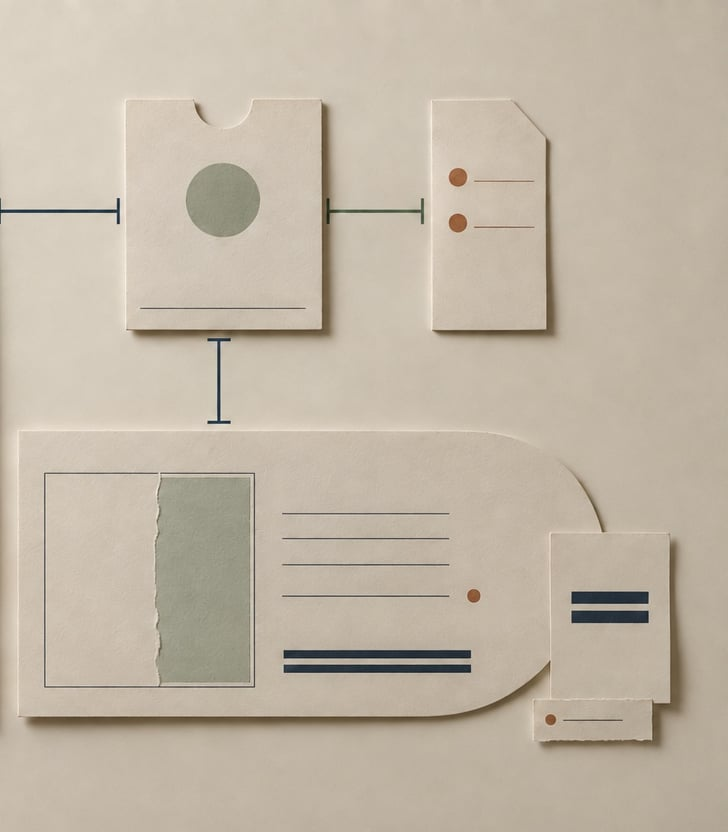
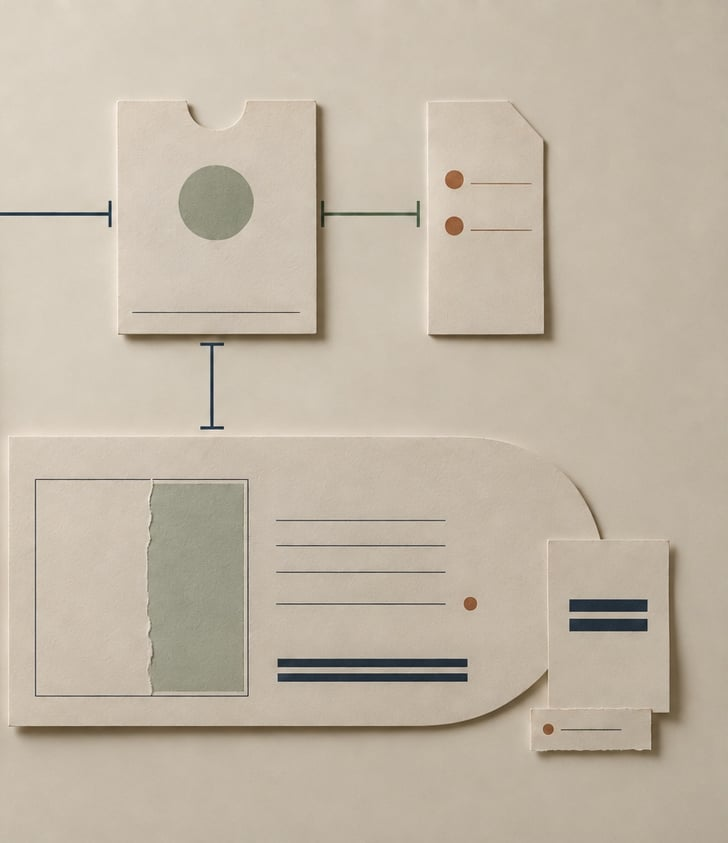
Plate: narrow crop starts clear of the folder connector, test coverage, shorter note

diff --git a/tests/unit/site_onepager_copy.test.ts b/tests/unit/site_onepager_copy.test.ts
@@ -3,7 +3,10 @@ import { createElement } from "react";
 import { renderToStaticMarkup } from "react-dom/server";
 import { readFileSync } from "node:fs";
 import { join } from "node:path";
+import { renderToStaticMarkup } from "react-dom/server";
+import sharp from "sharp";
 import { describe, expect, it } from "vitest";
+import { RecordPlate } from "../../frontend/src/components/onepager/onepager_plate";
 
 /**
  * Guards for the neotoma.io developer one-pager (home route).
@@ -19,7 +22,9 @@ const files = ["NeotomaOnePager.tsx", "onepager_copy.ts", "onepager_figures.tsx"
   readFileSync(join(dir, f), "utf-8")
 );
 // Doc comments list what is deliberately not claimed; only shipped copy is checked.
-const all = files.join("\n").replace(/\/\*[\s\S]*?\*\//g, "");
+const all = [...files, readFileSync(join(dir, "onepager_plate.tsx"), "utf-8")]
+  .join("\n")
+  .replace(/\/\*[\s\S]*?\*\//g, "");
 
 describe("neotoma.io one-pager copy", () => {
   it("uses no em dashes", () => {
@@ -330,5 +335,129 @@ describe("/install polish", () => {
 
   it("has no stale 280 px drafting-logo comment", () => {
     expect(css).not.toMatch(/280 px/);
+  });
+});
+
+describe("sheet 01 plate (FIG. A-1)", () => {
+  const read = (rel: string) => readFileSync(join(root, rel), "utf-8");
+  const brand = join(root, "frontend", "public", "brand");
+  const prov = JSON.parse(readFileSync(join(brand, "PROVENANCE.json"), "utf-8")).plate as {
+    source: { sha256: string };
+    files: Record<string, { sha256: string; bytes: number; width: number; height: number }>;
+  };
+  const html = renderToStaticMarkup(RecordPlate());
+  const attr = (tag: string, name: string) =>
+    new RegExp(`\\s${name}="([^"]*)"`, "i").exec(tag)?.[1];
+  const img = /<img\b[^>]*>/.exec(html)![0];
+
+  it("keeps the committed plate files byte for byte (sha256, size and dimensions from PROVENANCE.json)", async () => {
+    expect(Object.keys(prov.files).length).toBe(4);
+    for (const [file, info] of Object.entries(prov.files)) {
+      const bytes = readFileSync(join(brand, file));
+      expect(createHash("sha256").update(bytes).digest("hex"), file).toBe(info.sha256);
+      expect(bytes.length, `${file} bytes`).toBe(info.bytes);
+      const meta = await sharp(bytes).metadata();
+      expect([meta.width, meta.height], `${file} dimensions`).toEqual([info.width, info.height]);
+    }
+  });
+
+  it("records the accepted source hash and refuses any other source", async () => {
+    // @ts-expect-error plain ESM script
+    const script = await import("../../scripts/derive_neotoma_plate.mjs");
+    expect(prov.source.sha256).toBe(script.ACCEPTED_SOURCE_SHA256);
+    expect(() => script.verifySource(Buffer.from("not the accepted photograph"))).toThrow(
+      /refusing to derive/
+    );
+    // The narrow files are a crop window of the source frame; the overlay must use the same window.
+    const { NARROW_VIEW, PLATE_NARROW } =
+      await import("../../frontend/src/components/onepager/onepager_plate");
+    expect(NARROW_VIEW).toEqual({
+      x: script.NARROW_CROP.left,
+      y: script.NARROW_CROP.top,
+      w: script.NARROW_CROP.width,
+      h: script.NARROW_CROP.height,
+    });
+    expect([PLATE_NARROW.width, PLATE_NARROW.height]).toEqual([
+      script.NARROW_SIZE.width,
+      script.NARROW_SIZE.height,
+    ]);
+  });
+
+  it("gives the image a text alternative and explicit dimensions that match the file", () => {
+    const alt = attr(img, "alt");
+    expect(alt && alt.length, "alt text").toBeGreaterThan(120);
+    expect(alt).toMatch(/synthetic example/i);
+    const wide = prov.files["plate/neotoma-plate-a1-wide.jpg"];
+    expect(Number(attr(img, "width"))).toBe(wide.width);
+    expect(Number(attr(img, "height"))).toBe(wide.height);
+    expect(attr(img, "src")).toBe("/brand/plate/neotoma-plate-a1-wide.jpg");
+    // Both file families carry their own dimensions on the <source> so the box is reserved either way.
+    const sources = [...html.matchAll(/<source\b[^>]*>/g)].map((m) => m[0]);
+    expect(sources.length).toBe(3);
+    for (const tag of sources) {
+      const file = attr(tag, "srcset")!.replace("/brand/", "");
+      const info = prov.files[file];
+      expect(info, file).toBeDefined();
+      expect(Number(attr(tag, "width")), file).toBe(info.width);
+      expect(Number(attr(tag, "height")), file).toBe(info.height);
+    }
+  });
+
+  it("serves a separate narrow crop at 860 px and below, and never lazy-loads the first-screen image", () => {
+    const narrow = [...html.matchAll(/<source\b[^>]*>/g)]
+      .map((m) => m[0])
+      .filter((t) => attr(t, "media") === "(max-width: 860px)");
+    expect(narrow.map((t) => attr(t, "srcset"))).toEqual([
+      "/brand/plate/neotoma-plate-a1-narrow.webp",
+      "/brand/plate/neotoma-plate-a1-narrow.jpg",
+    ]);
+    expect(img).not.toMatch(/loading="lazy"/);
+    expect(img).toMatch(/fetchpriority="high"/);
+  });
+
+  it("keeps the desktop file light (WebP at most 120 KB)", () => {
+    const wide = prov.files["plate/neotoma-plate-a1-wide.webp"];
+    expect(wide.bytes).toBeLessThanOrEqual(120 * 1024);
+    expect(prov.files["plate/neotoma-plate-a1-narrow.webp"].bytes).toBeLessThan(wide.bytes);
+  });
+
+  it("puts no words on the paper objects: the overlay text is only keys, labels and the note", () => {
+    const text = [...html.matchAll(/<text\b[^>]*>(.*?)<\/text>/g)].map((m) =>
+      m[1]
+        .replace(/<[^>]+>/g, "")
+        .replace(/&#x27;|&amp;/g, "")
+        .trim()
+    );
+    const allowed = [/^[1-4]$/, /^FIG\. A-1/, /^SYNTHETIC EXAMPLE$/, /^NOTE$/, /^[A-Z0-9 .,]+$/];
+    for (const t of text) {
+      expect(
+        allowed.some((re) => re.test(t)),
+        `unexpected overlay text: ${t}`
+      ).toBe(true);
+    }
+    expect(text.filter((t) => /^[1-4]$/.test(t)).length).toBe(8); // four keys, wide and narrow
+    // No invoice data (dates, amounts) is drawn on the plate; the legend carries it.
+    expect(text.join(" ")).not.toMatch(/OCT|3,?200|3,?250/);
+    expect(html.match(/aria-hidden="true"/g)?.length).toBe(2);
+  });
+
+  it("keeps the plate's own paper ground in dark mode: framed, never inverted or tinted", () => {
+    const css = read("frontend/src/components/onepager/onepager.css");
+    const rule = (sel: string) =>
+      new RegExp(`${sel.replace(/[.]/g, "\\.")} \\{[^}]*\\}`).exec(css)?.[0] ?? "";
+    expect(rule(".dark .plan-plate")).toMatch(/border-color: rgba\(236, 229, 212/);
+    for (const sel of [".plan-plate", ".plan-plate-img", ".dark .plan-plate"]) {
+      expect(rule(sel), sel).not.toMatch(/filter|invert|mix-blend|opacity/);
+    }
+    expect(css).not.toMatch(/\.dark[^{]*\.plan-plate-img/);
+  });
+
+  it("replaces the abstract record plan in sheet 01 and keeps the four-item legend", () => {
+    const page = files[0];
+    expect(page).toContain("<RecordPlate />");
+    expect(page).not.toContain("RecordPlan");
+    expect(files[2]).not.toContain("RecordPlan");
+    expect(page).toContain("FIGURE_LEGEND.map");
+    expect(/FIGURE_LEGEND[^=]*= \[([\s\S]*?)\n\];/.exec(files[1])![1].split('",\n').length).toBe(4);
   });
 });

diff --git a/frontend/src/components/onepager/onepager_plate.tsx b/frontend/src/components/onepager/onepager_plate.tsx
@@ -20,11 +20,11 @@ import { cloudPath } from "./onepager_figures";
 export const PLATE_WIDE = { width: 1536, height: 1024, src: "/brand/plate/neotoma-plate-a1-wide" };
 export const PLATE_NARROW = {
   width: 728,
-  height: 832,
+  height: 843,
   src: "/brand/plate/neotoma-plate-a1-narrow",
 };
 /** Window of the source frame that the narrow files show: left, top, width, height. */
-export const NARROW_VIEW = { x: 640, y: 0, w: 896, h: 1024 } as const;
+export const NARROW_VIEW = { x: 652, y: 0, w: 884, h: 1024 } as const;
 
 /** Fixed colors: the plate keeps its own paper ground in both themes, so it does not follow them. */
 const INK = "#28372f";
@@ -56,19 +56,7 @@ function Key({ n, x, y, u }: { n: number; x: number; y: number; u: number }) {
 }
 
 /** Dimension line with end ticks, drawn between two points. */
-function Dim({
-  x1,
-  y1,
-  x2,
-  y2,
-  u,
-}: {
-  x1: number;
-  y1: number;
-  x2: number;
-  y2: number;
-  u: number;
-}) {
+function Dim({ x1, y1, x2, y2, u }: { x1: number; y1: number; x2: number; y2: number; u: number }) {
   const dx = x2 - x1;
   const dy = y2 - y1;
   const len = Math.hypot(dx, dy);
@@ -101,7 +89,7 @@ function Overlay({ variant }: { variant: Variant }) {
   const cloud = cloudPath({ x: 974, y: 702, w: 272, h: 62, r: 5 * u });
 
   // Labels in the empty paper margin.
-  const labelX = narrow ? 664 : 80;
+  const labelX = narrow ? 676 : 80;
   const labelY = narrow ? 52 : 66;
   const tagText = "SYNTHETIC EXAMPLE";
   const tagCharW = 0.6 * fs(12);
@@ -111,14 +99,13 @@ function Overlay({ variant }: { variant: Variant }) {
 
   const noteY0 = narrow ? 936 : 944;
   const noteH = narrow ? 82 : 56;
-  const noteX0 = narrow ? 664 : 80;
+  const noteX0 = narrow ? 676 : 80;
   const noteX1 = narrow ? 1514 : 1456;
-  const noteCell = 62 * u;
+  const noteCell = (narrow ? 52 : 62) * u;
 
   // Provenance leader: from the cloud up through the gap, then onto the later observation.
   const leader = "M1226,702 V452 H1204 V300";
-  const arrow = (x: number, y: number) =>
-    `M${x},${y} l${-4.5 * u},${9 * u} l${9 * u},0 Z`;
+  const arrow = (x: number, y: number) => `M${x},${y} l${-4.5 * u},${9 * u} l${9 * u},0 Z`;
 
   return (
     <svg
@@ -223,7 +210,7 @@ function Overlay({ variant }: { variant: Variant }) {
             x={noteX0 + noteCell + 8 * u}
             y={noteY0 + noteH / 2 + (i === 0 ? -4 : 12) * u}
             fill={INK}
-            fontSize={fs(10.5)}
+            fontSize={fs(10)}
           >
             {line.toUpperCase()}
           </text>

diff --git a/frontend/src/components/onepager/onepager_copy.ts b/frontend/src/components/onepager/onepager_copy.ts
@@ -22,12 +22,12 @@ export const FIGURE_LEGEND: readonly string[] = [
  * that the objects are illustrative. It must stay in step with FIGURE_LEGEND.
  */
 export const PLATE_ALT =
-  "Plate A-1, a synthetic example: an overhead photograph of paper records laid out on beige paper, marked with four numbered drafting callouts keyed to the legend below. The paper objects carry no text and stand in for records. Callout 1 spans the two small source sheets, which disagree about one invoice's due date. Callout 2 marks the round-tabbed card that stands for the rule. Callout 3 is a revision cloud on the current record's changed line, with a leader back to the later observation. Callout 4 spans both observations, which stay on record.";
+  "Plate A-1, a synthetic example: an overhead photograph of paper records laid out on beige paper, marked with four numbered drafting callouts keyed to the legend below. The paper objects carry no text and stand in for records. Callout 1 spans two small pieces of paper that stand for the two sources, which disagree about one invoice's due date. Callout 2 marks the notched card with a round mark, which stands for the rule. Callout 3 is a revision cloud on the current record's changed line, with a leader back to the later observation. Callout 4 spans both observations, which stay on record.";
 
 /** Title-block note of the plate, one entry per line in the narrow crop. */
 export const PLATE_NOTE: readonly string[] = [
-  "Paper objects illustrate only and carry no invoice data.",
-  "Keys 1 to 4 match the legend below.",
+  "Paper objects carry no invoice data.",
+  "Keys 1 to 4 match the legend.",
 ];
 
 export const RECALL_VS_RECORD: readonly {

diff --git a/frontend/src/components/onepager/onepager.css b/frontend/src/components/onepager/onepager.css
@@ -551,7 +551,7 @@
     margin-bottom: 32px;
   }
   .plan-plate {
-    aspect-ratio: 728 / 832;
+    aspect-ratio: 728 / 843;
     max-width: 420px;
     margin: 0 auto;
   }
